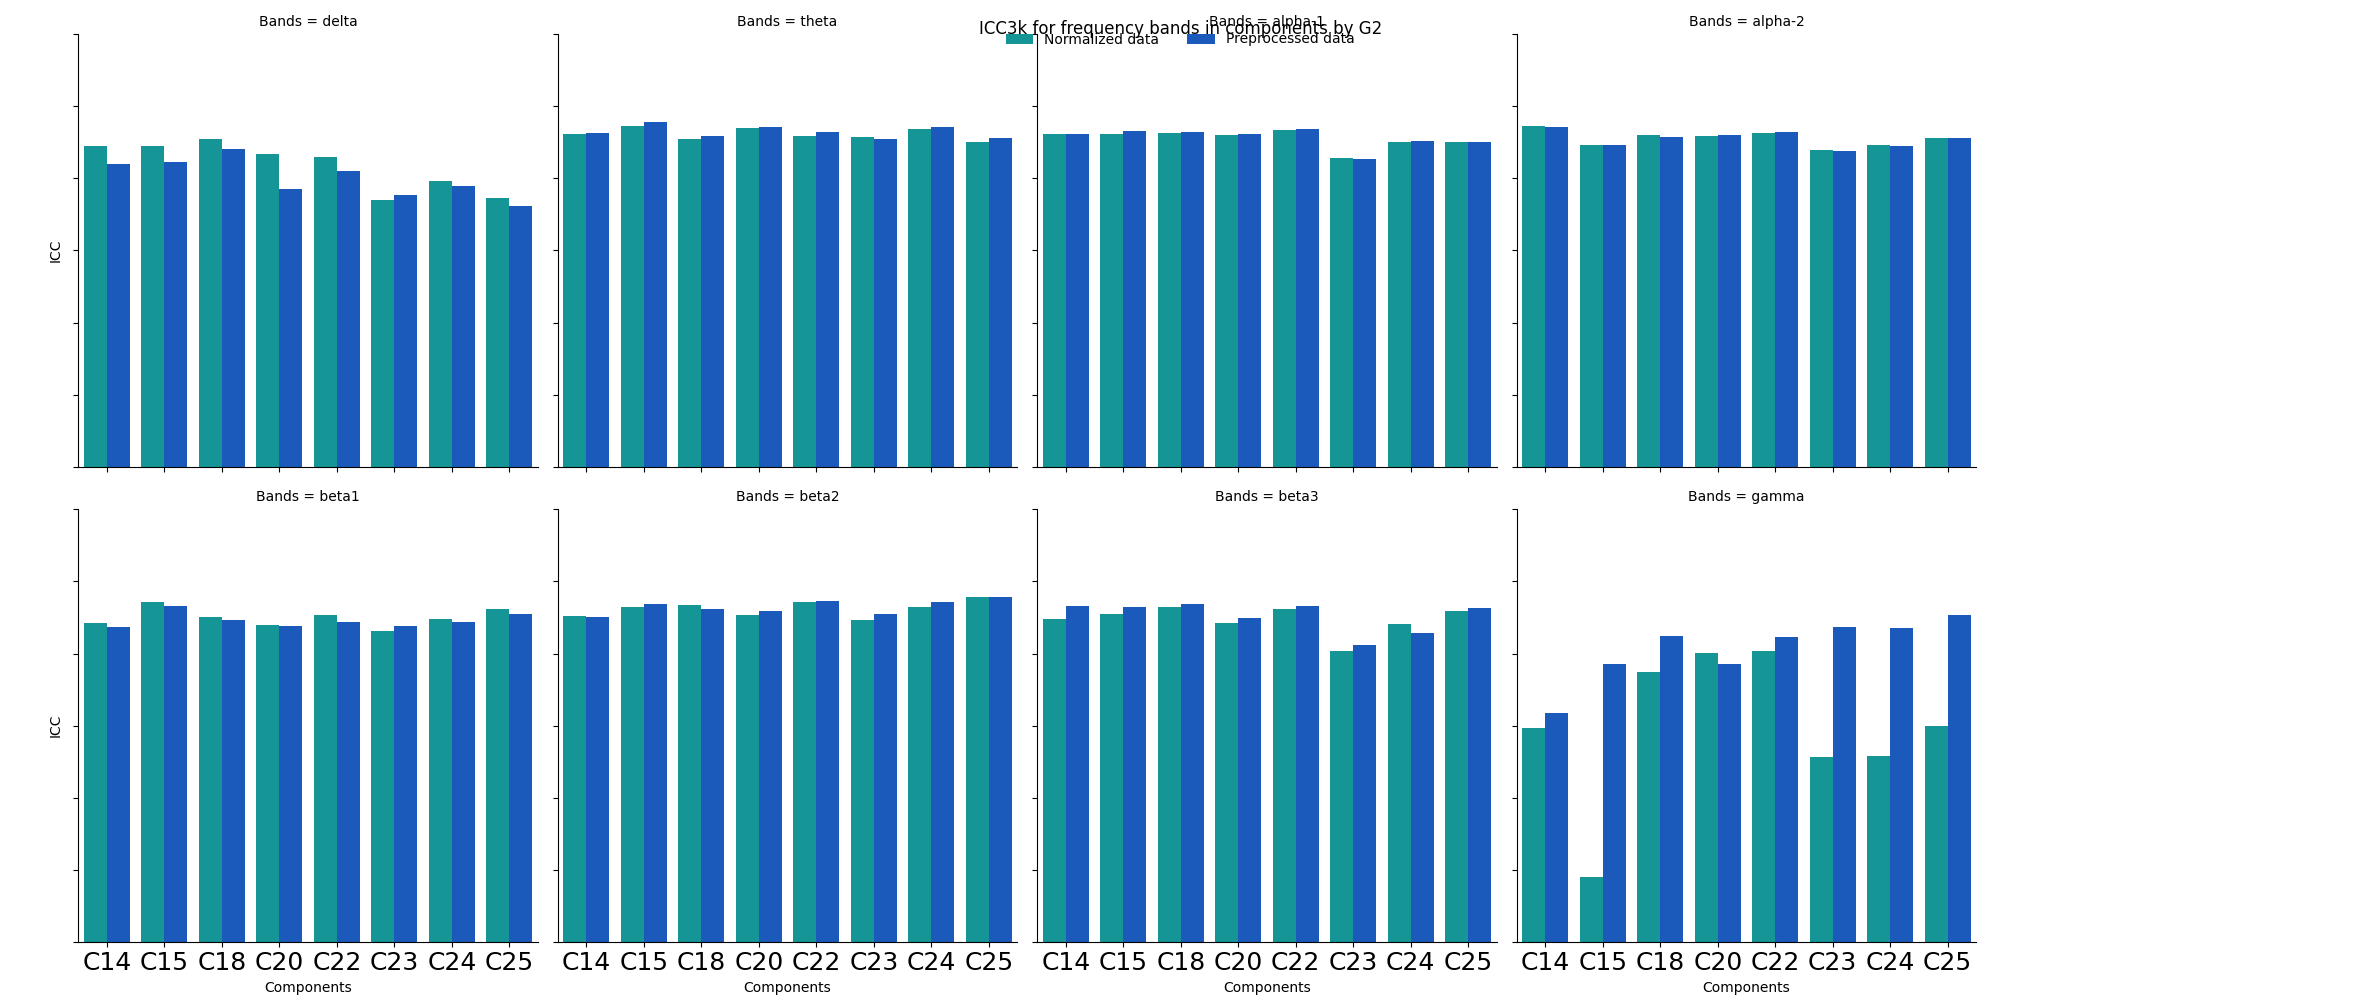
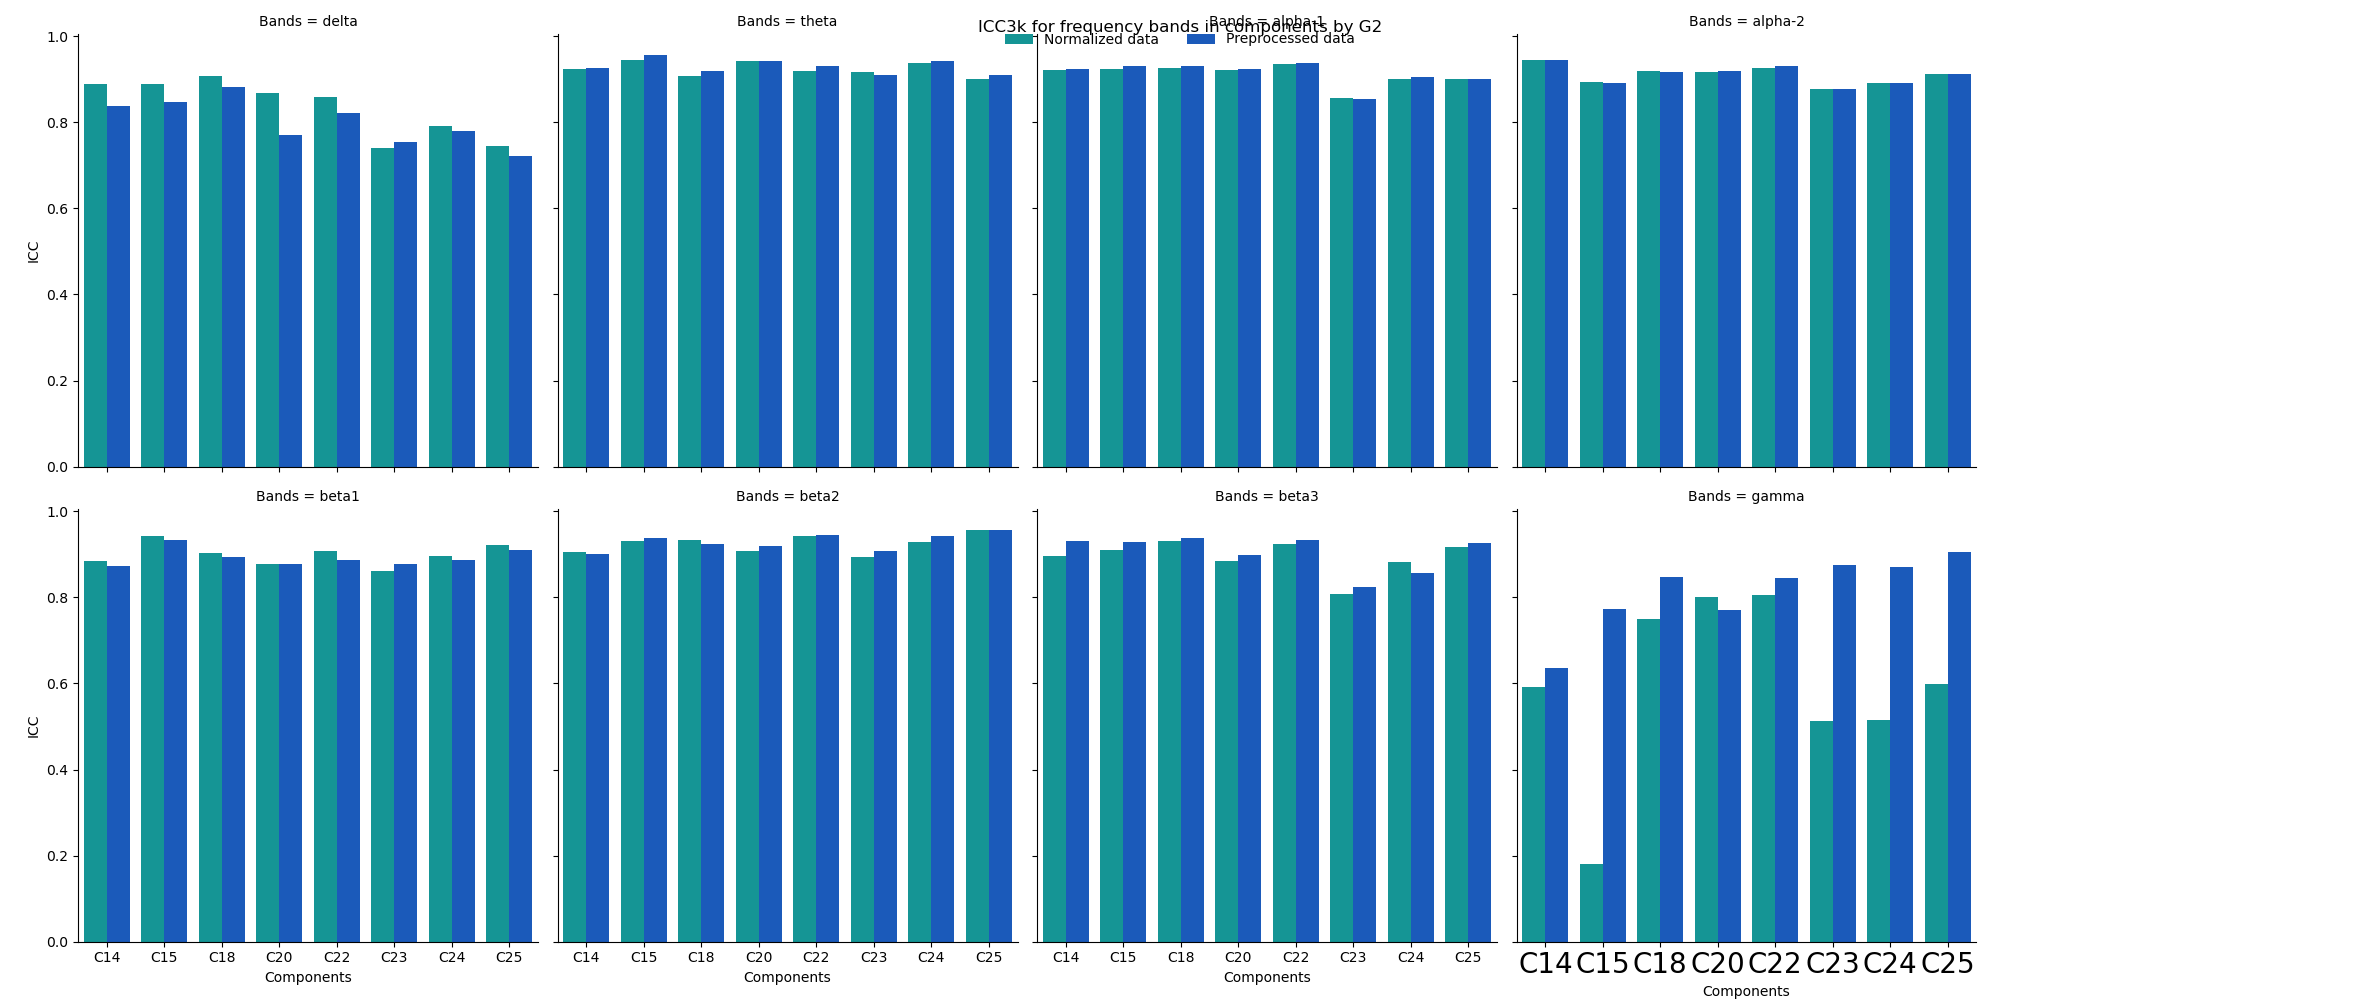
topo

diff --git a/sovaharmony/Reproducibilidad/ICC_graphic.py b/sovaharmony/Reproducibilidad/ICC_graphic.py
@@ -3,7 +3,7 @@ import numpy as np
 import matplotlib.pyplot as plt 
 import seaborn as sns 
 
-icc_data=pd.read_csv(r'paquetes\eeg_harmonization\sovaharmony\Reproducibilidad\icc_values.csv',sep=';')
+icc_data=pd.read_csv(r'eeg_harmonization\sovaharmony\Reproducibilidad\icc_values.csv',sep=';')
 bands=icc_data['Bands'].unique()
 def barplot_icc(icc_data,group,plot=False,save=False):
     for band in bands:
@@ -13,7 +13,7 @@ def barplot_icc(icc_data,group,plot=False,save=False):
         sns.move_legend(ax, "lower center", bbox_to_anchor=(.5, 1), ncol=2, title=None, frameon=False)
         plt.title('ICC3 for '+ band +' in components by '+group,y=1.08)
         if save==True:
-            plt.savefig('paquetes\eeg_harmonization\sovaharmony\Reproducibilidad\ICC\ICC_{name_group}_{name_band}_components.png'.format(name_group=group,name_band=band))
+            plt.savefig('eeg_harmonization\sovaharmony\Reproducibilidad\ICC\ICC_{name_group}_{name_band}_components.png'.format(name_group=group,name_band=band))
             plt.close()
         if plot:
             plt.show()
@@ -28,14 +28,16 @@ def barplot_icc_nB_1G(icc_data,group,plot=False,save=False):
     ax.add_legend(loc='upper center',bbox_to_anchor=(.5,0.98),ncol=2)
     _, ylabels = plt.yticks()
     _, xlabels = plt.xticks()
-    ax.set_yticklabels(ylabels, size=18)
-    ax.set_xticklabels(xlabels, size=18)
+    plt.xticks(fontsize=20)
+    plt.yticks(fontsize=20)
+    #ax.set_yticklabels(ylabels, size=18)
+    #ax.set_xticklabels(xlabels, size=18)
     # sns.move_legend(ax, "lower center", bbox_to_anchor=(.5, 1), ncol=2, title=None, frameon=False)
     # plt.title('ICC3 for ' +' in components by '+group,y=1.08)
     if save==True:
-        plt.savefig('paquetes\eeg_harmonization\sovaharmony\Reproducibilidad\ICC\ICC_{name_group}_components.png'.format(name_group=group))
+        plt.savefig('eeg_harmonization\sovaharmony\Reproducibilidad\ICC\ICC_{name_group}_components.png'.format(name_group=group))
         plt.close()
     if plot:
         plt.show()
-barplot_icc_nB_1G(icc_data,'G1',plot=True,save=True)
-barplot_icc_nB_1G(icc_data,'G2',plot=True,save=True)
+barplot_icc_nB_1G(icc_data,'G1',plot=False,save=True)
+barplot_icc_nB_1G(icc_data,'G2',plot=False,save=True)

diff --git a/misc/read_tsv.py b/misc/read_tsv.py
@@ -14,16 +14,16 @@ G1_G2['age']=G1_G2['age'].mask(G1_G2['age'].eq('None'))
 
 min=G1_G2['age'].dropna().min()
 max=G1_G2['age'].dropna().max()
-print('Rango G1+G2: ',min,'-',max)
+#print('Rango G1+G2: ',min,'-',max)
 
 
 min=G1['age'].dropna().min()
 max=G1['age'].dropna().max()
-print('Rango G1: ',min,'-',max)
+#print('Rango G1: ',min,'-',max)
 
 
 min=G2['age'].dropna().min()
 max=G2['age'].dropna().max()
-print('Rango G2: ',min,'-',max)
+#print('Rango G2: ',min,'-',max)
 
 

diff --git a/misc/topo.py b/misc/topo.py
@@ -17,7 +17,8 @@ for comp in range(len(A)):
     A_ = np.expand_dims(A[:,comp],axis=-1)
     W_ = np.expand_dims(W[comp,:],axis=0)
     figSingle = us.topomap(A_,W_,ch_names,cmap='seismic',show=False)
-    plt.show()
+    #plt.show()
+    plt.savefig(r'eeg_harmonization\misc\Topo'+r'/'+'C'+str(comp+1)+r'.png')
 #%% Otra forma
 #fig3 = us.single_topomap(A[:,comp],ch_names,show=True,label='1',show_names=False)
 #plt.show()
